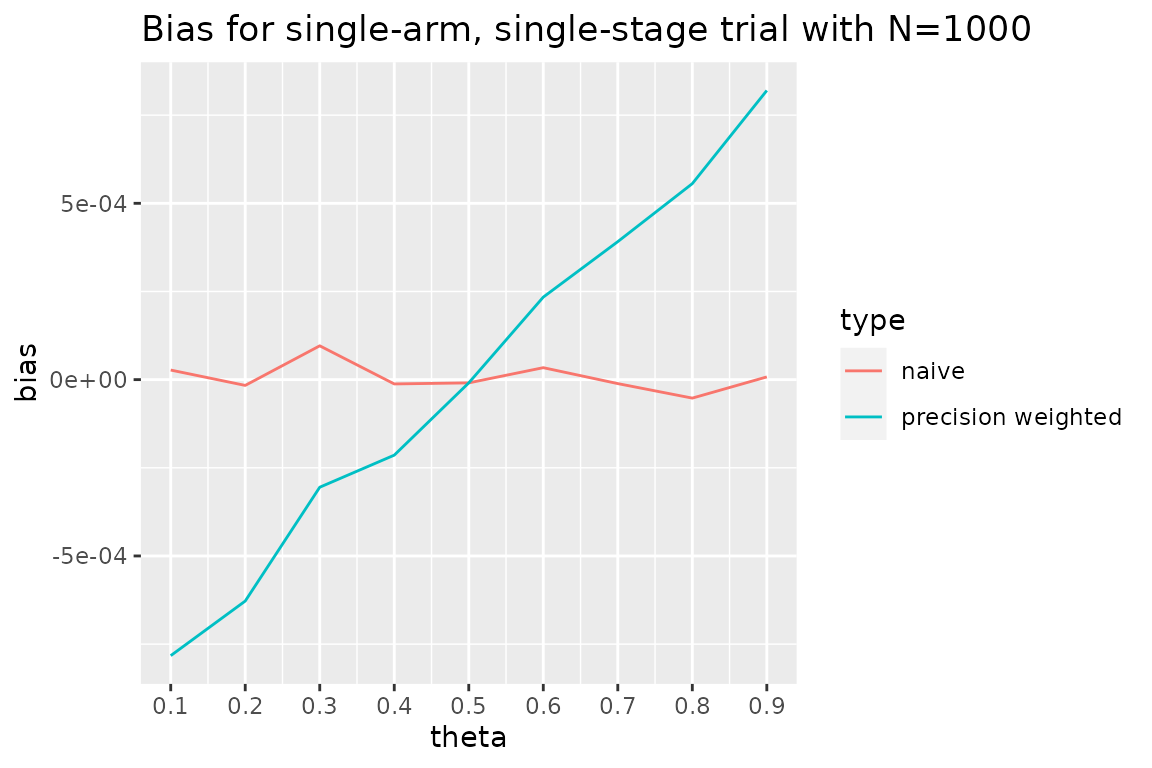
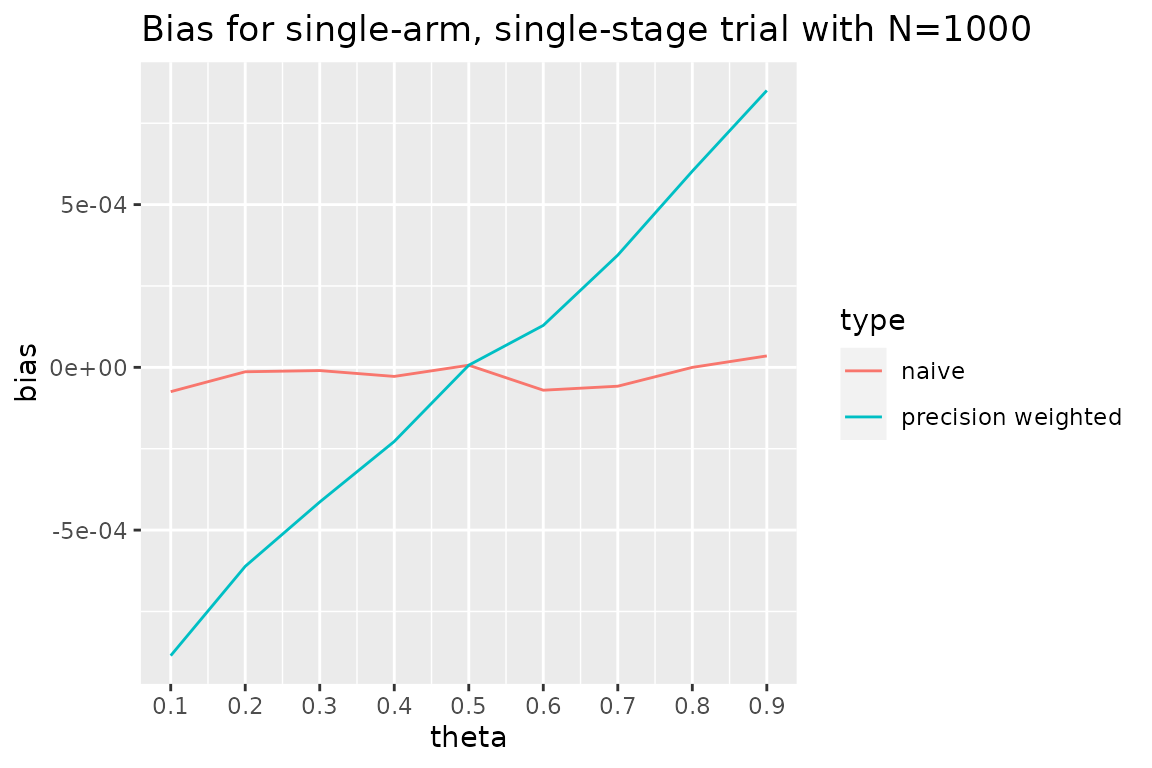
Built site for pwb: 0.0.0.9000@f349916

diff --git a/articles/MA_simon.html b/articles/MA_simon.html
@@ -93,9 +93,41 @@
                             nsims<span class="op">=</span><span class="fl">1e4</span>,
                             n.studies<span class="op">=</span><span class="fl">4</span><span class="op">)</span>
 <span class="va">ma.simon.results</span>
-<span class="co">#&gt;                        reps mean.studies     bias mean.se</span>
-<span class="co">#&gt; All trials            10000       5.0000 -0.00032   0.015</span>
-<span class="co">#&gt; Exclude early stopped 10000       4.3118  0.00138   0.016</span></code></pre></div>
+<span class="co">#&gt;                        reps mean.studies     bias mean.se theta</span>
+<span class="co">#&gt; All trials            10000       5.0000 -0.00034   0.016   0.5</span>
+<span class="co">#&gt; Exclude early stopped 10000       4.3125  0.00140   0.016   0.5</span>
+<span class="co">#&gt;                                        type</span>
+<span class="co">#&gt; All trials                       All trials</span>
+<span class="co">#&gt; Exclude early stopped Exclude early stopped</span></code></pre></div>
+<div class="section level4">
+<h4 id="moving-away-from-theta0-5">Moving away from theta=0.5<a class="anchor" aria-label="anchor" href="#moving-away-from-theta0-5"></a>
+</h4>
+<p>As with the single Simon design, let us examine what happens when the response rate is not close to 0.5. Here, we obtain a Simon design for p0=0.8, p1=0.9:</p>
+<div class="sourceCode" id="cb4"><pre class="downlit sourceCode r">
+<code class="sourceCode R"><span class="va">all.designs2</span> <span class="op">&lt;-</span> <span class="fu">clinfun</span><span class="fu">::</span><span class="fu"><a href="https://rdrr.io/pkg/clinfun/man/ph2simon.html" class="external-link">ph2simon</a></span><span class="op">(</span>pu<span class="op">=</span><span class="fl">0.8</span>,
+                                 pa<span class="op">=</span><span class="fl">0.9</span>,
+                                 ep1<span class="op">=</span><span class="fl">0.05</span>,
+                                 ep2<span class="op">=</span><span class="fl">0.1</span>,
+                                 nmax<span class="op">=</span><span class="fl">150</span><span class="op">)</span>
+<span class="co"># Choose optimal Simon design:</span>
+<span class="va">opt.index</span> <span class="op">&lt;-</span> <span class="fu"><a href="https://rdrr.io/r/base/which.min.html" class="external-link">which.min</a></span><span class="op">(</span><span class="va">all.designs2</span><span class="op">$</span><span class="va">out</span><span class="op">[</span>, <span class="st">"EN(p0)"</span><span class="op">]</span><span class="op">)</span>
+<span class="va">simon.des2</span> <span class="op">&lt;-</span> <span class="va">all.designs2</span><span class="op">$</span><span class="va">out</span><span class="op">[</span><span class="va">opt.index</span>, <span class="op">]</span></code></pre></div>
+<p>Again, simulate meta-analyses of this Simon design and single-arm single-stage trials with the same maximum sample size <em>N</em> as the Simon design:</p>
+<div class="sourceCode" id="cb5"><pre class="downlit sourceCode r">
+<code class="sourceCode R"><span class="va">theta.vec</span> <span class="op">&lt;-</span> <span class="fu"><a href="https://rdrr.io/r/base/seq.html" class="external-link">seq</a></span><span class="op">(</span><span class="fl">0.5</span>, <span class="fl">0.9</span>, <span class="fl">0.05</span><span class="op">)</span>
+<span class="va">ma.simon.results2</span> <span class="op">&lt;-</span> <span class="fu"><a href="https://rdrr.io/r/base/vector.html" class="external-link">vector</a></span><span class="op">(</span><span class="st">"list"</span>, <span class="fu"><a href="https://rdrr.io/r/base/length.html" class="external-link">length</a></span><span class="op">(</span><span class="va">theta.vec</span><span class="op">)</span><span class="op">)</span>
+<span class="kw">for</span><span class="op">(</span><span class="va">i</span> <span class="kw">in</span> <span class="fl">1</span><span class="op">:</span><span class="fu"><a href="https://rdrr.io/r/base/length.html" class="external-link">length</a></span><span class="op">(</span><span class="va">theta.vec</span><span class="op">)</span><span class="op">)</span><span class="op">{</span>
+  <span class="va">ma.simon.results2</span><span class="op">[[</span><span class="va">i</span><span class="op">]</span><span class="op">]</span> <span class="op">&lt;-</span> <span class="fu"><a href="../reference/maSimon.html">maSimon</a></span><span class="op">(</span>theta<span class="op">=</span><span class="va">theta.vec</span><span class="op">[</span><span class="va">i</span><span class="op">]</span>,
+                                    des<span class="op">=</span><span class="va">simon.des2</span>,
+                                    nsims<span class="op">=</span><span class="fl">1e4</span>,
+                                    n.studies<span class="op">=</span><span class="fl">4</span><span class="op">)</span>
+  <span class="op">}</span>
+
+<span class="va">ma.simon.results2</span> <span class="op">&lt;-</span> <span class="fu"><a href="https://rdrr.io/r/base/do.call.html" class="external-link">do.call</a></span><span class="op">(</span><span class="va">rbind</span>, <span class="va">ma.simon.results2</span><span class="op">)</span></code></pre></div>
+<pre><code><span class="co">#&gt; Warning in register(): Can't find generic `scale_type` in package ggplot2 to</span>
+<span class="co">#&gt; register S3 method.</span></code></pre>
+<p><img src="MA_simon_files/figure-html/simon%20plot%202%20subset-1.png" width="576"></p>
+</div>
   </main>
 </div>
 

diff --git a/articles/GS.html b/articles/GS.html
@@ -76,7 +76,9 @@
     
 <div class="sourceCode" id="cb1"><pre class="downlit sourceCode r">
 <code class="sourceCode R"><span class="kw"><a href="https://rdrr.io/r/base/library.html" class="external-link">library</a></span><span class="op">(</span><span class="va"><a href="https://martinlaw.github.io/pwb/">pwb</a></span><span class="op">)</span>
-<span class="kw"><a href="https://rdrr.io/r/base/library.html" class="external-link">library</a></span><span class="op">(</span><span class="va"><a href="https://ggplot2.tidyverse.org" class="external-link">ggplot2</a></span><span class="op">)</span></code></pre></div>
+<span class="kw"><a href="https://rdrr.io/r/base/library.html" class="external-link">library</a></span><span class="op">(</span><span class="va"><a href="https://ggplot2.tidyverse.org" class="external-link">ggplot2</a></span><span class="op">)</span>
+<span class="co">#&gt; Warning in register(): Can't find generic `scale_type` in package ggplot2 to</span>
+<span class="co">#&gt; register S3 method.</span></code></pre></div>
 <p>Find single-arm group sequential design with p0=0.5, p1=0.6, type-I error-rate 0.1, power 0.8, with stopping for both benefit and futility:</p>
 <div class="sourceCode" id="cb2"><pre class="downlit sourceCode r">
 <code class="sourceCode R">  <span class="va">ad</span> <span class="op">&lt;-</span> <span class="fu">curtailment</span><span class="fu">::</span><span class="fu"><a href="https://rdrr.io/pkg/curtailment/man/singlearmDesign.html" class="external-link">singlearmDesign</a></span><span class="op">(</span>nmin<span class="op">=</span><span class="fl">50</span>,
@@ -100,10 +102,10 @@
                      nsims<span class="op">=</span><span class="va">nsims</span><span class="op">)</span>
   <span class="va">single.GS</span><span class="op">$</span><span class="va">ests</span><span class="op">[</span>, <span class="fl">1</span><span class="op">:</span><span class="fl">5</span><span class="op">]</span>
 <span class="co">#&gt;                          nsims    bias mean.SE emp.SE theta</span>
-<span class="co">#&gt; Stopped early            39156 -0.0452  0.0455 0.0277   0.5</span>
-<span class="co">#&gt; Complete                 60844  0.0249  0.0421 0.0300   0.5</span>
-<span class="co">#&gt; All                     100000 -0.0026  0.0434 0.0449   0.5</span>
-<span class="co">#&gt; All (precision-weghted) 100000  0.0001  0.0433     NA   0.5</span>
+<span class="co">#&gt; Stopped early            39105 -0.0452  0.0455 0.0275   0.5</span>
+<span class="co">#&gt; Complete                 60895  0.0246  0.0421 0.0299   0.5</span>
+<span class="co">#&gt; All                     100000 -0.0027  0.0434 0.0447   0.5</span>
+<span class="co">#&gt; All (precision-weghted) 100000  0.0000  0.0433     NA   0.5</span>
   <span class="fu"><a href="https://rdrr.io/r/base/Round.html" class="external-link">round</a></span><span class="op">(</span><span class="va">single.GS</span><span class="op">$</span><span class="va">mc.error</span>, <span class="fl">5</span><span class="op">)</span>
 <span class="co">#&gt; [1] 0.00014 0.00010</span></code></pre></div>
 <p>How does bias compare when the true response probability is varied? Find results for a vector of true response probabilities:</p>

diff --git a/articles/Non-adaptive_designs.html b/articles/Non-adaptive_designs.html
@@ -76,7 +76,9 @@
     
 <div class="sourceCode" id="cb1"><pre class="downlit sourceCode r">
 <code class="sourceCode R"><span class="kw"><a href="https://rdrr.io/r/base/library.html" class="external-link">library</a></span><span class="op">(</span><span class="va"><a href="https://martinlaw.github.io/pwb/">pwb</a></span><span class="op">)</span>
-<span class="kw"><a href="https://rdrr.io/r/base/library.html" class="external-link">library</a></span><span class="op">(</span><span class="va"><a href="https://ggplot2.tidyverse.org" class="external-link">ggplot2</a></span><span class="op">)</span></code></pre></div>
+<span class="kw"><a href="https://rdrr.io/r/base/library.html" class="external-link">library</a></span><span class="op">(</span><span class="va"><a href="https://ggplot2.tidyverse.org" class="external-link">ggplot2</a></span><span class="op">)</span>
+<span class="co">#&gt; Warning in register(): Can't find generic `scale_type` in package ggplot2 to</span>
+<span class="co">#&gt; register S3 method.</span></code></pre></div>
 <p>Depending on the type of adaptation and the observed data, the progress of an adaptive design may not differ from a non-adaptive design. As such, it may be worthwhile to examine precision weighted bias in the context of non-adaptive designs. We simulate <em>nsims=1e5</em> binary outcome single-stage designs with sample size <em>N=100</em> for a series of response probabilities theta (0.1, 0.9, 0.1), then record the naive and precision weighted bias:</p>
 <div class="sourceCode" id="cb2"><pre class="downlit sourceCode r">
 <code class="sourceCode R"><span class="co"># Simulate single-stage design:</span>

diff --git a/articles/simon.html b/articles/simon.html
@@ -96,7 +96,9 @@
 </ul>
 <div class="sourceCode" id="cb1"><pre class="downlit sourceCode r">
 <code class="sourceCode R"><span class="kw"><a href="https://rdrr.io/r/base/library.html" class="external-link">library</a></span><span class="op">(</span><span class="va"><a href="https://martinlaw.github.io/pwb/">pwb</a></span><span class="op">)</span>
-<span class="kw"><a href="https://rdrr.io/r/base/library.html" class="external-link">library</a></span><span class="op">(</span><span class="va"><a href="https://ggplot2.tidyverse.org" class="external-link">ggplot2</a></span><span class="op">)</span></code></pre></div>
+<span class="kw"><a href="https://rdrr.io/r/base/library.html" class="external-link">library</a></span><span class="op">(</span><span class="va"><a href="https://ggplot2.tidyverse.org" class="external-link">ggplot2</a></span><span class="op">)</span>
+<span class="co">#&gt; Warning in register(): Can't find generic `scale_type` in package ggplot2 to</span>
+<span class="co">#&gt; register S3 method.</span></code></pre></div>
 <p>Find a Simon design with p<sub>0</sub>=0.5, p<sub>1</sub>=0.6, type-I error-rate 0.05, power 0.9:</p>
 <div class="sourceCode" id="cb2"><pre class="downlit sourceCode r">
 <code class="sourceCode R"><span class="va">all.designs</span> <span class="op">&lt;-</span> <span class="fu">clinfun</span><span class="fu">::</span><span class="fu"><a href="https://rdrr.io/pkg/clinfun/man/ph2simon.html" class="external-link">ph2simon</a></span><span class="op">(</span>pu<span class="op">=</span><span class="fl">0.5</span>,

diff --git a/articles/RPW.html b/articles/RPW.html
@@ -76,7 +76,9 @@
     
 <div class="sourceCode" id="cb1"><pre class="downlit sourceCode r">
 <code class="sourceCode R"><span class="kw"><a href="https://rdrr.io/r/base/library.html" class="external-link">library</a></span><span class="op">(</span><span class="va"><a href="https://martinlaw.github.io/pwb/">pwb</a></span><span class="op">)</span>
-<span class="kw"><a href="https://rdrr.io/r/base/library.html" class="external-link">library</a></span><span class="op">(</span><span class="va"><a href="https://ggplot2.tidyverse.org" class="external-link">ggplot2</a></span><span class="op">)</span></code></pre></div>
+<span class="kw"><a href="https://rdrr.io/r/base/library.html" class="external-link">library</a></span><span class="op">(</span><span class="va"><a href="https://ggplot2.tidyverse.org" class="external-link">ggplot2</a></span><span class="op">)</span>
+<span class="co">#&gt; Warning in register(): Can't find generic `scale_type` in package ggplot2 to</span>
+<span class="co">#&gt; register S3 method.</span></code></pre></div>
 <div class="sourceCode" id="cb2"><pre class="downlit sourceCode r">
 <code class="sourceCode R"><span class="co"># Setup</span>
 <span class="va">nsim</span> <span class="op">=</span> <span class="fl">10</span><span class="op">^</span><span class="fl">6</span>
